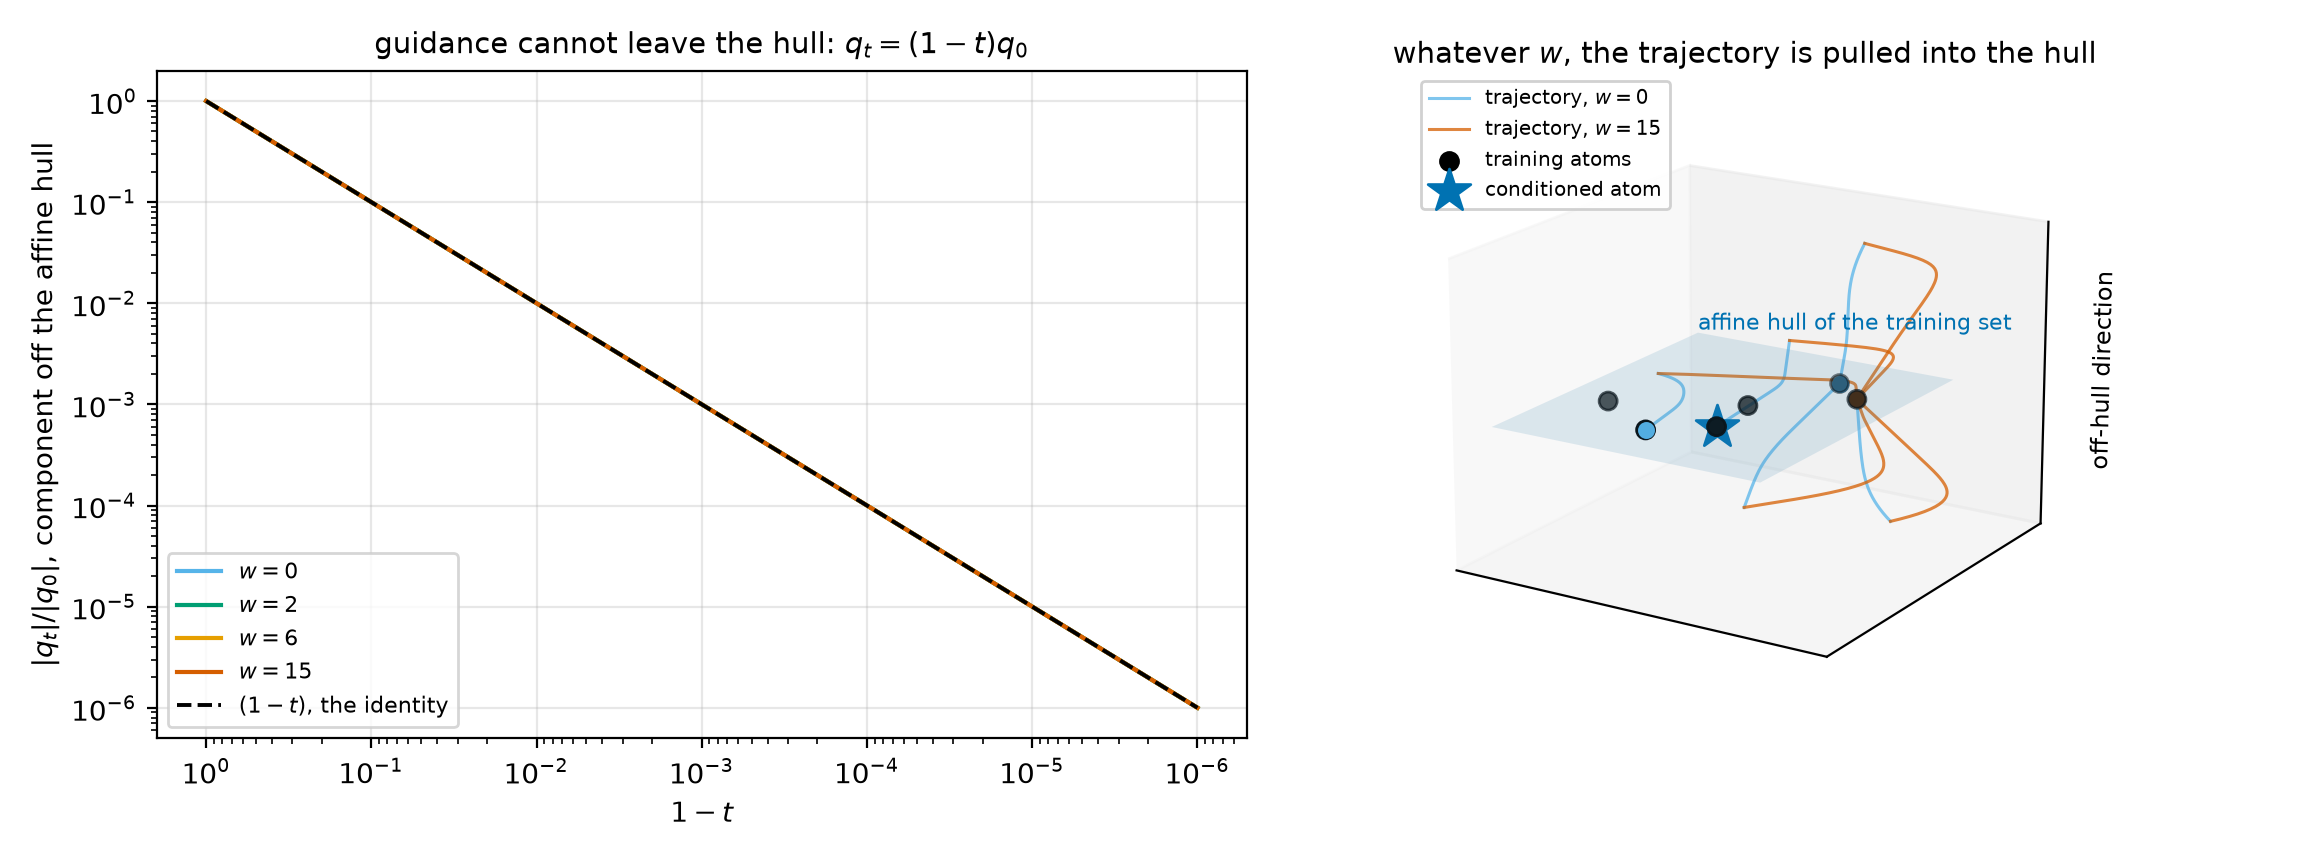
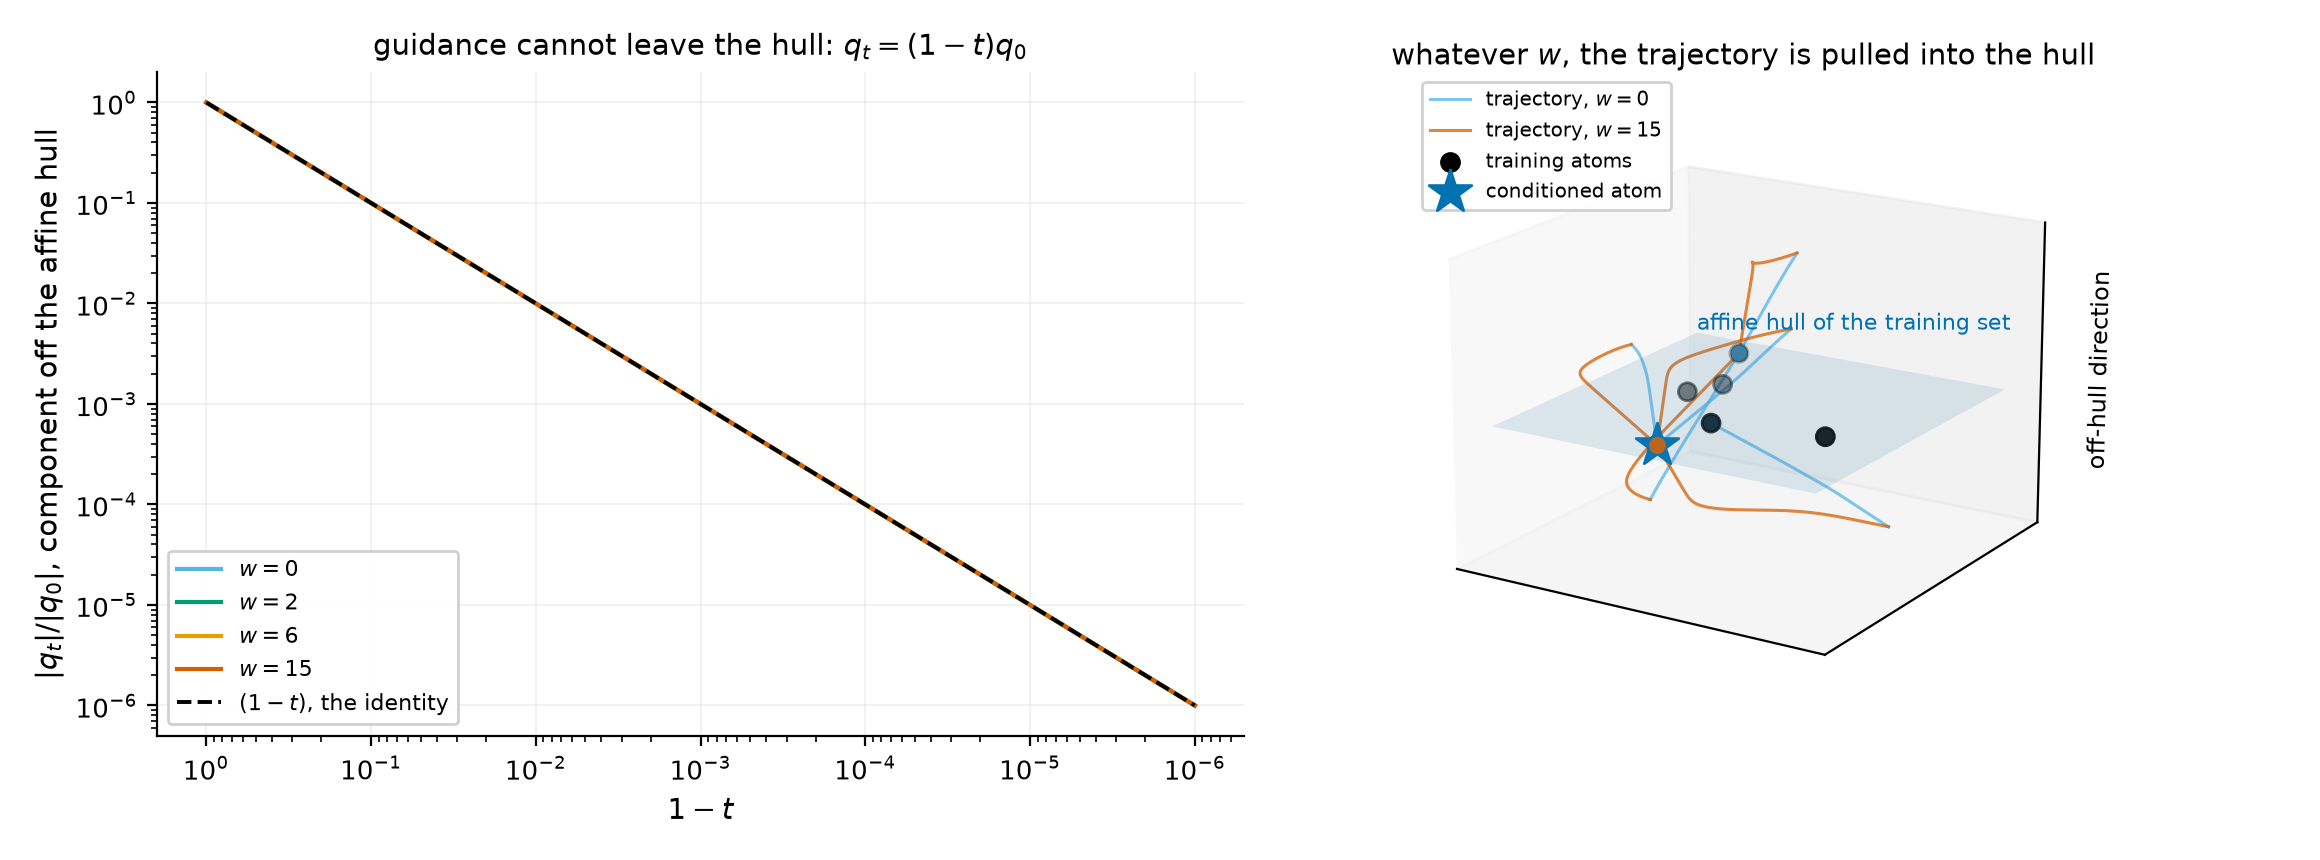
Restore the three-panel posterior-distance figure, and put four more scripts on the shared style
fig_posterior_distance.png was clobbered. make_paper_figures.py still carried the first,
two-panel version of that plot and rewrote the file whenever it ran; I ran it in 4bc082a
to move it onto figstyle, so the committed PNG became the old MMD-and-Sinkhorn pair while
the caption in Appendix D describes the redrawn one with the sampling floor and the atomic
prediction. The figure is regenerated from make_posterior_distance_figure.py, the only script
that should write it, and the superseded plot is removed from make_paper_figures.py. No other
figure has two writers.

make_theory_figures, make_p1p4_figure, make_posterior_distance_figure and
make_seed_split_figure call use_paper_style() and reproduce their numbers (78% instance
share, 4.6x the published bar, MMD 0.0116 against a 0.00073 floor). Their annotations were laid
out on framed legends, and two on the default font sizes, so those settings are kept after
the call; without them legends print over data. Each of the seven regenerated PNGs was read
by eye. README.md lists which scripts are on the style and which are not.

diff --git a/scripts/make_paper_figures.py b/scripts/make_paper_figures.py
@@ -63,30 +63,6 @@ def fig_optimality_gap():
     print("wrote fig_optgap.png")
 
 
-def fig_posterior_distance():
-    df = pd.read_csv(ROOT / "posterior_distance_exp1.csv").sort_values("h")
-    x = np.arange(len(df)); labels = [f"{h:g}" for h in df["h"]]
-    fig, (ax1, ax2) = plt.subplots(1, 2, figsize=(10, 4.2))
-    ax1.errorbar(x, df["mmd_to_post"], yerr=df["mmd_std"], marker="o",
-                 color=OI["blue"], capsize=3, label="MMD to true posterior")
-    ax1.axhline(0, color=OI["vermillion"], ls="--", lw=1.5,
-                label="continuous-posterior target (0)")
-    ax1.set_xticks(x); ax1.set_xticklabels(labels)
-    ax1.set_xlabel("label-noise bandwidth $h$"); ax1.set_ylabel("MMD to posterior")
-    ax1.set_title("(a) MMD falls with $h$ but never reaches 0")
-    ax1.legend(fontsize=9); style(ax1)
-
-    ax2.plot(x, df["sinkhorn_to_post"], marker="s", color=OI["green"],
-             label="Sinkhorn to posterior")
-    ax2.axhline(df["sinkhorn_to_post"].min(), color="#888888", ls=":", lw=1.2)
-    ax2.set_xticks(x); ax2.set_xticklabels(labels)
-    ax2.set_xlabel("label-noise bandwidth $h$"); ax2.set_ylabel("Sinkhorn distance")
-    ax2.set_title("(b) Sinkhorn plateaus above 0 (atomicity floor)")
-    ax2.legend(fontsize=9); style(ax2)
-    fig.tight_layout(); fig.savefig(OUT / "fig_posterior_distance.png"); plt.close(fig)
-    print("wrote fig_posterior_distance.png")
-
-
 def fig_lipschitz():
     df = pd.read_csv(ROOT / "lipschitz.csv").sort_values("t")
     x = np.arange(len(df)); labels = [f"{t:g}" for t in df["t"]]
@@ -289,7 +265,6 @@ def fig_gap_diagnostic_h01():
 
 if __name__ == "__main__":
     fig_optimality_gap()
-    fig_posterior_distance()
     fig_lipschitz()
     fig_p7_summary()
     fig_exp2_curves()

diff --git a/scripts/make_seed_split_figure.py b/scripts/make_seed_split_figure.py
@@ -34,6 +34,17 @@ matplotlib.use("Agg")
 import matplotlib.pyplot as plt
 import numpy as np
 
+import sys as _sys
+from pathlib import Path as _Path
+
+_sys.path.insert(0, str(_Path(__file__).resolve().parents[1]))
+from scripts.figstyle import use_paper_style  # noqa: E402
+
+use_paper_style()
+# this figure's annotations were laid out at the default sizes
+plt.rcParams.update({"font.size": 10, "axes.titlesize": 10.5, "axes.labelsize": 10, "legend.fontsize": 8.5, "legend.frameon": True, "legend.framealpha": 0.92,
+                     "xtick.labelsize": 9, "ytick.labelsize": 9})
+
 SRC = Path("results/exp1/_seed_split/summary.json")
 OUT = Path("paper/figures/fig_seed_split.png")
 OI = {"black": "#000000", "orange": "#E69F00", "sky": "#56B4E9", "green": "#009E73",

diff --git a/scripts/make_posterior_distance_figure.py b/scripts/make_posterior_distance_figure.py
@@ -46,6 +46,17 @@ import matplotlib.pyplot as plt
 import numpy as np
 import pandas as pd
 
+import sys as _sys
+from pathlib import Path as _Path
+
+_sys.path.insert(0, str(_Path(__file__).resolve().parents[1]))
+from scripts.figstyle import use_paper_style  # noqa: E402
+
+use_paper_style()
+# this figure's annotations were laid out at the default sizes
+plt.rcParams.update({"font.size": 10, "axes.titlesize": 10.5, "axes.labelsize": 10, "legend.fontsize": 8.5, "legend.frameon": True, "legend.framealpha": 0.92,
+                     "xtick.labelsize": 9, "ytick.labelsize": 9})
+
 RAW = Path("results/exp1/_theory/raw")
 OUT = Path("paper/figures/fig_posterior_distance.png")
 OI = {"black": "#000000", "orange": "#E69F00", "sky": "#56B4E9", "green": "#009E73",

diff --git a/scripts/make_p1p4_figure.py b/scripts/make_p1p4_figure.py
@@ -38,6 +38,16 @@ import matplotlib.pyplot as plt
 import numpy as np
 import pandas as pd
 
+import sys as _sys
+from pathlib import Path as _Path
+
+_sys.path.insert(0, str(_Path(__file__).resolve().parents[1]))
+from scripts.figstyle import use_paper_style  # noqa: E402
+
+use_paper_style()
+# these legends sit over data and were laid out with a frame
+plt.rcParams.update({"legend.frameon": True, "legend.framealpha": 0.92})
+
 OUT = Path("paper/figures/fig_p1p4.png")
 OI = {"black": "#000000", "orange": "#E69F00", "sky": "#56B4E9", "green": "#009E73",
       "blue": "#0072B2", "vermillion": "#D55E00", "purple": "#CC79A7"}

diff --git a/scripts/make_theory_figures.py b/scripts/make_theory_figures.py
@@ -48,6 +48,16 @@ import matplotlib.pyplot as plt
 import numpy as np
 import pandas as pd
 
+import sys as _sys
+from pathlib import Path as _Path
+
+_sys.path.insert(0, str(_Path(__file__).resolve().parents[1]))
+from scripts.figstyle import use_paper_style  # noqa: E402
+
+use_paper_style()
+# these legends sit over data and were laid out with a frame
+plt.rcParams.update({"legend.frameon": True, "legend.framealpha": 0.92})
+
 FIGS = Path("paper/figures")
 OI = {"black": "#000000", "orange": "#E69F00", "sky": "#56B4E9", "green": "#009E73",
       "blue": "#0072B2", "vermillion": "#D55E00", "purple": "#CC79A7"}

diff --git a/paper/README.md b/paper/README.md
@@ -114,13 +114,15 @@ smoothing reproduces `Cov_h + rho^2 I`, and that the plotted weights `p_i^(h)`, 
 gives byte-identical PNGs. Run scripts from the repository root as modules
 (`uv run python -m scripts.make_flow_portraits`).
 
-Scripts that still use their own default styling and have not been moved to `figstyle.py`
-(their PNGs are unchanged): `make_theory_figures.py`, `make_mechanism_figure.py`,
-`make_factorisation_figure.py`, `make_p1p4_figure.py`, `make_posterior_distance_figure.py`,
-`make_seed_split_figure.py`, `beta_trajectory.py`, `visualize_collapse_2d.py`,
-`visualize_gmm_2d.py`, the `analyze_*.py` plots, and the MNIST/CIFAR-10 training grids
-(`fig_exp3_grid*`, `fig_exp3_cifar_grid*`). `make_paper_figures.py` was moved (its PNGs are
-re-rendered at 200 dpi instead of 150).
+Scripts on `figstyle.py` (call `use_paper_style()`): `make_paper_figures`, `make_theory_figures`,
+`make_p1p4_figure`, `make_posterior_distance_figure`, `make_seed_split_figure` and the flow / image /
+EXP-2 / expansion scripts above. The last four of these predate the shared style and their
+annotations were laid out on framed legends and default font sizes, so they keep those two
+settings after the call. Still on their own default styling (their PNGs are unchanged): `make_mechanism_figure`,
+`make_factorisation_figure`, `beta_trajectory`, `visualize_collapse_2d`, `visualize_gmm_2d`, the `analyze_*.py` plots, and the MNIST/CIFAR-10 training grids (`fig_exp3_grid*`, `fig_exp3_cifar_grid*`),
+which are written by `src/train_exp3.py`. `fig_posterior_distance.png` is written only by
+`make_posterior_distance_figure.py`; `make_paper_figures.py` used to overwrite it with an older two-panel
+version and no longer does.
 
 ### Checking the body length without pdflatex
 
